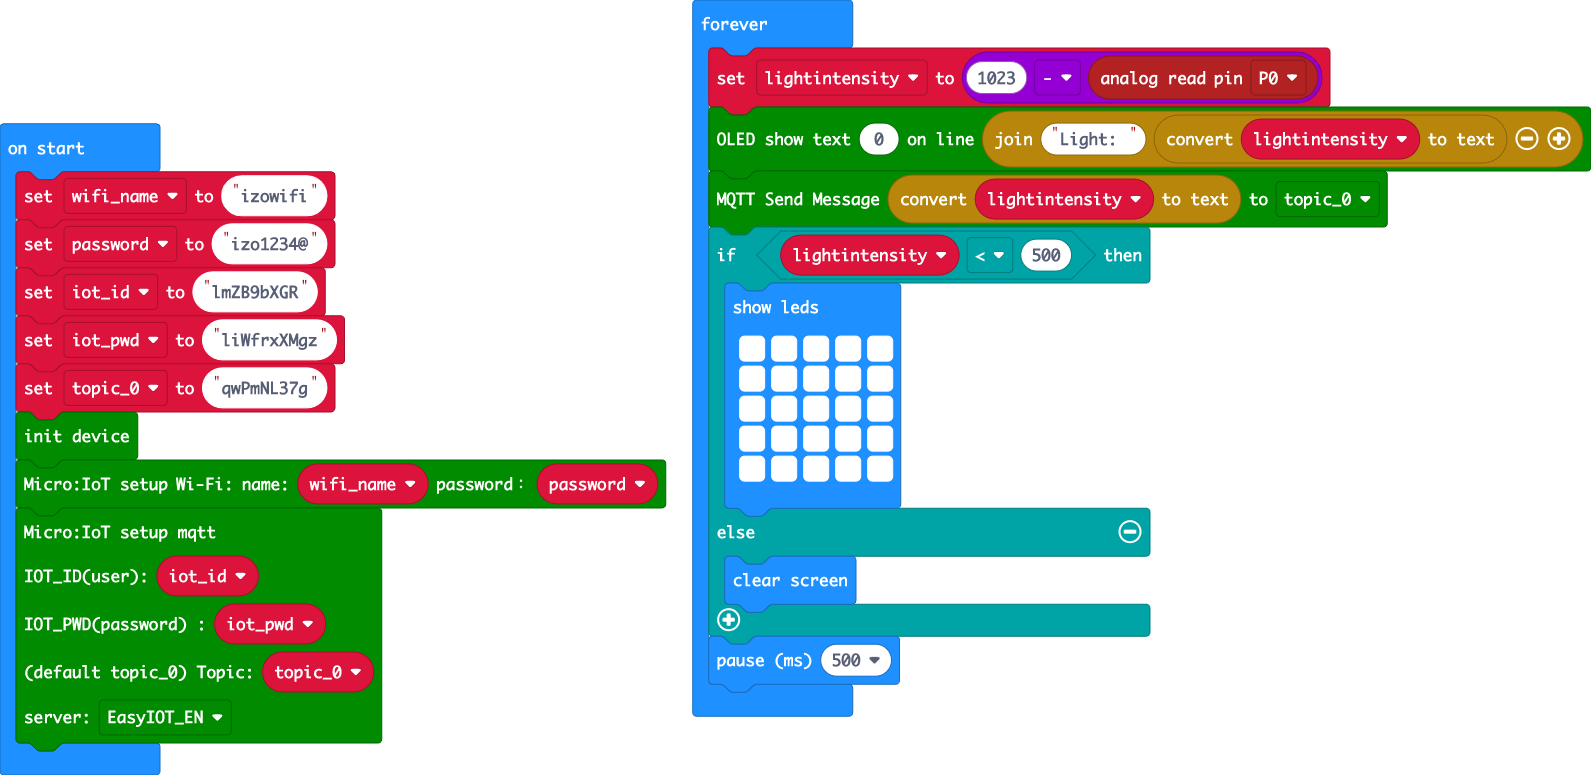
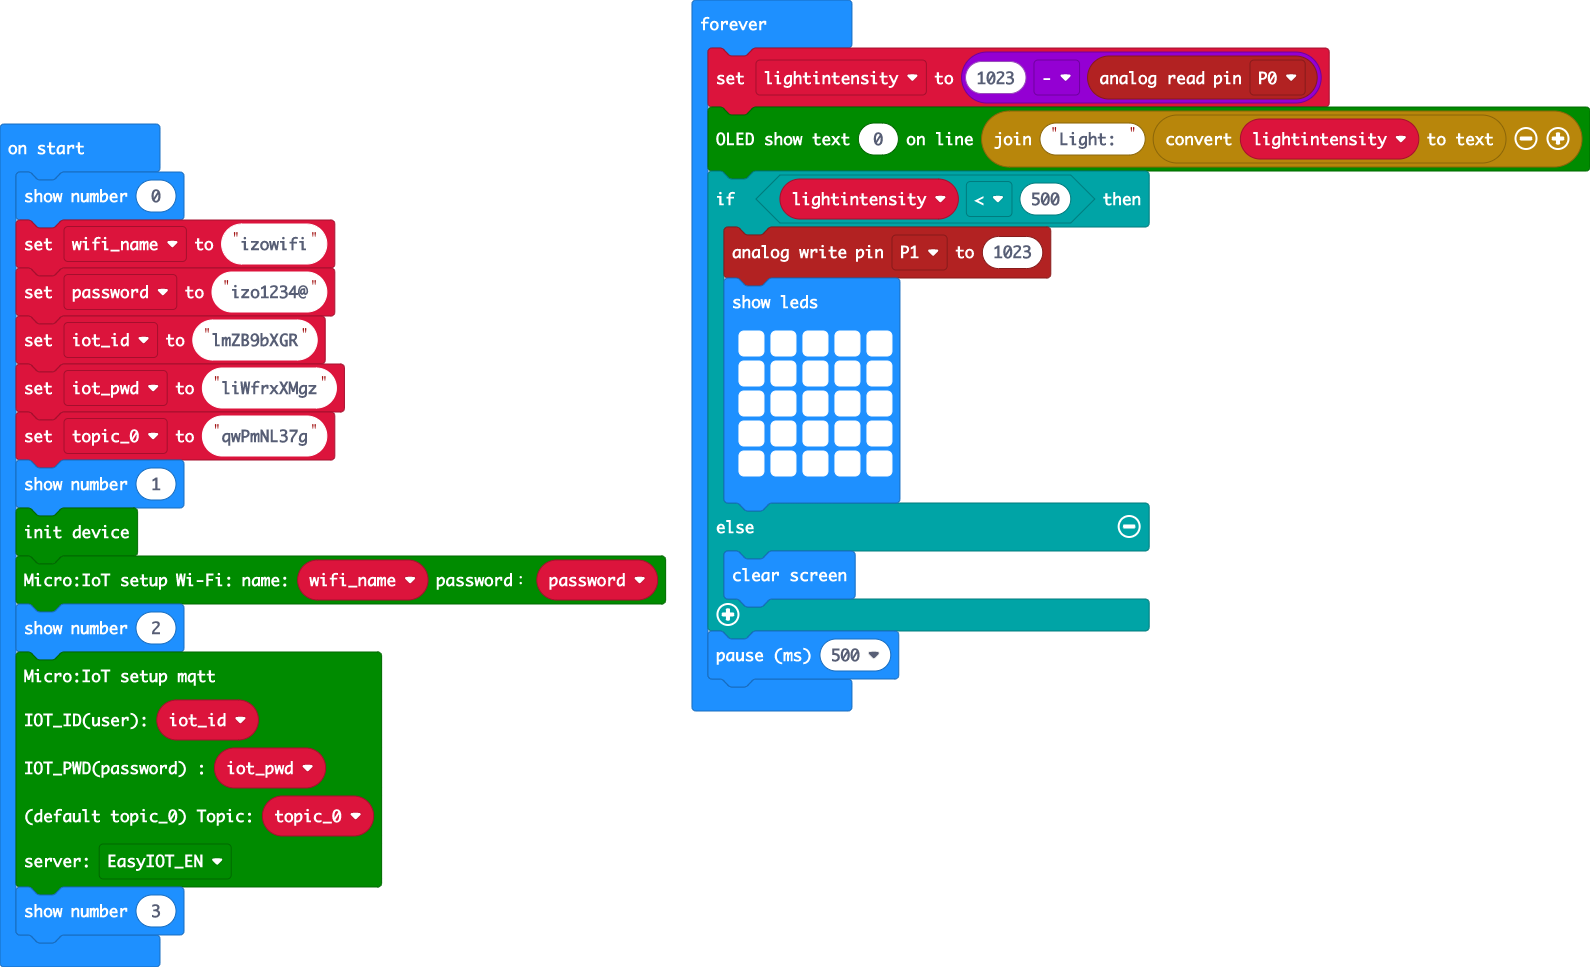
add debug

Changed region(s): [[0.0, 0.0, 1.0, 0.991]]

diff --git a/main.ts b/main.ts
@@ -1,22 +1,26 @@
 let lightintensity = 0
+basic.showNumber(0)
 let wifi_name = "izowifi"
 let password = "izo1234@"
 let iot_id = "lmZB9bXGR"
 let iot_pwd = "liWfrxXMgz"
 let topic_0 = "qwPmNL37g"
+basic.showNumber(1)
 microIoT.microIoT_initDisplay()
 microIoT.microIoT_WIFI(wifi_name, password)
+basic.showNumber(2)
 microIoT.microIoT_MQTT(
 iot_id,
 iot_pwd,
 topic_0,
 microIoT.SERVERS.English
 )
+basic.showNumber(3)
 basic.forever(function () {
     lightintensity = 1023 - pins.analogReadPin(AnalogPin.P0)
     microIoT.microIoT_showUserText(0, "Light: " + convertToText(lightintensity))
-    microIoT.microIoT_SendMessage(convertToText(lightintensity), microIoT.TOPIC.topic_0)
     if (lightintensity < 500) {
+        pins.analogWritePin(AnalogPin.P1, 1023)
         basic.showLeds(`
             # # # # #
             # # # # #
